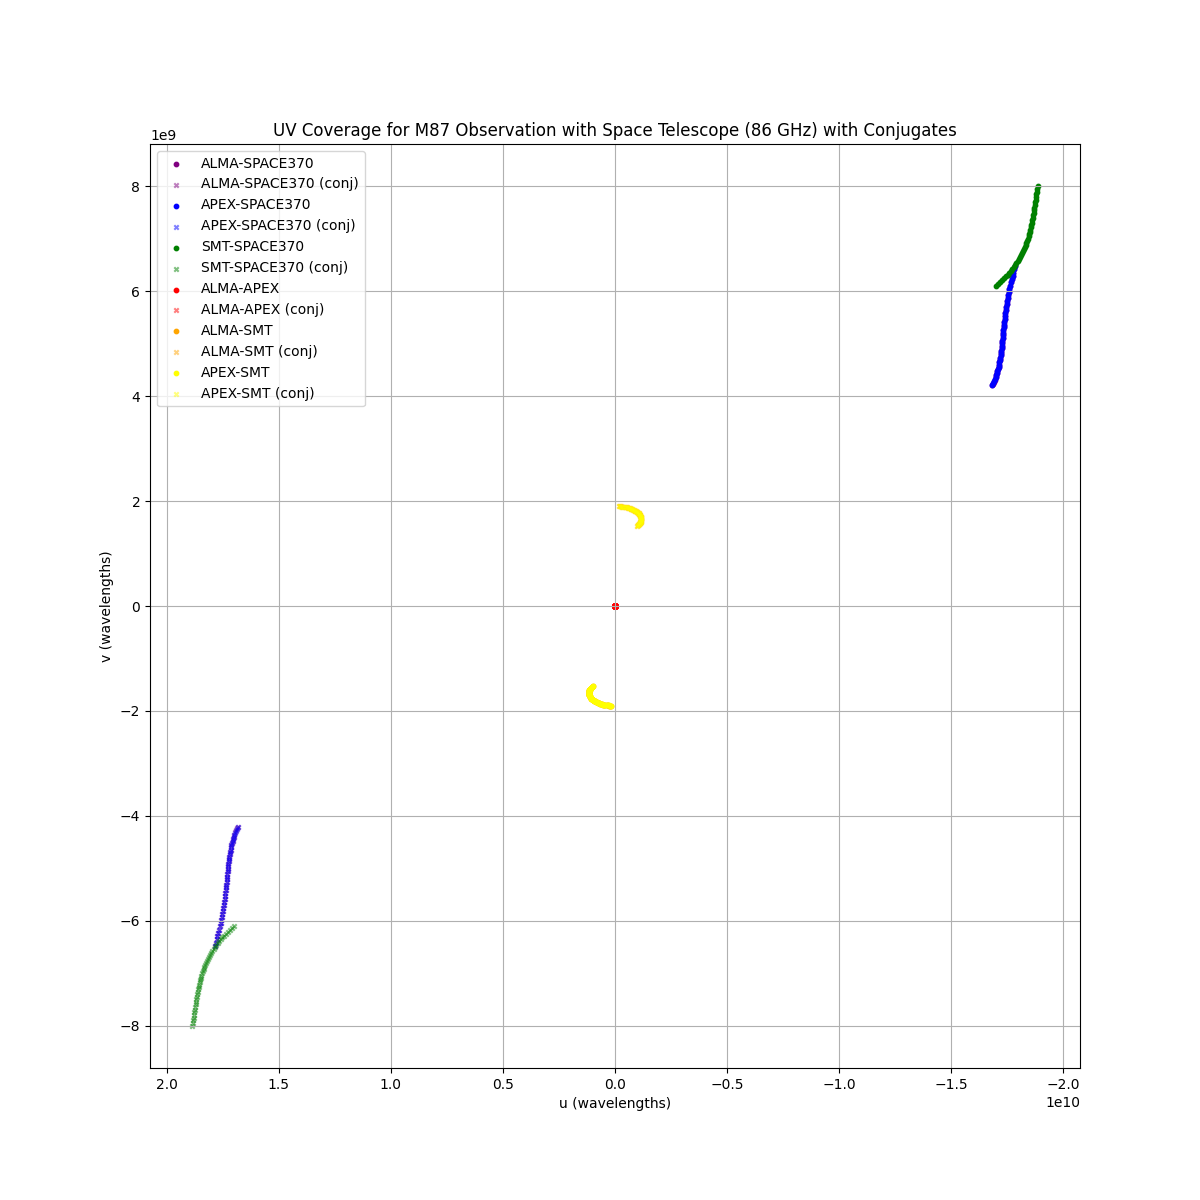
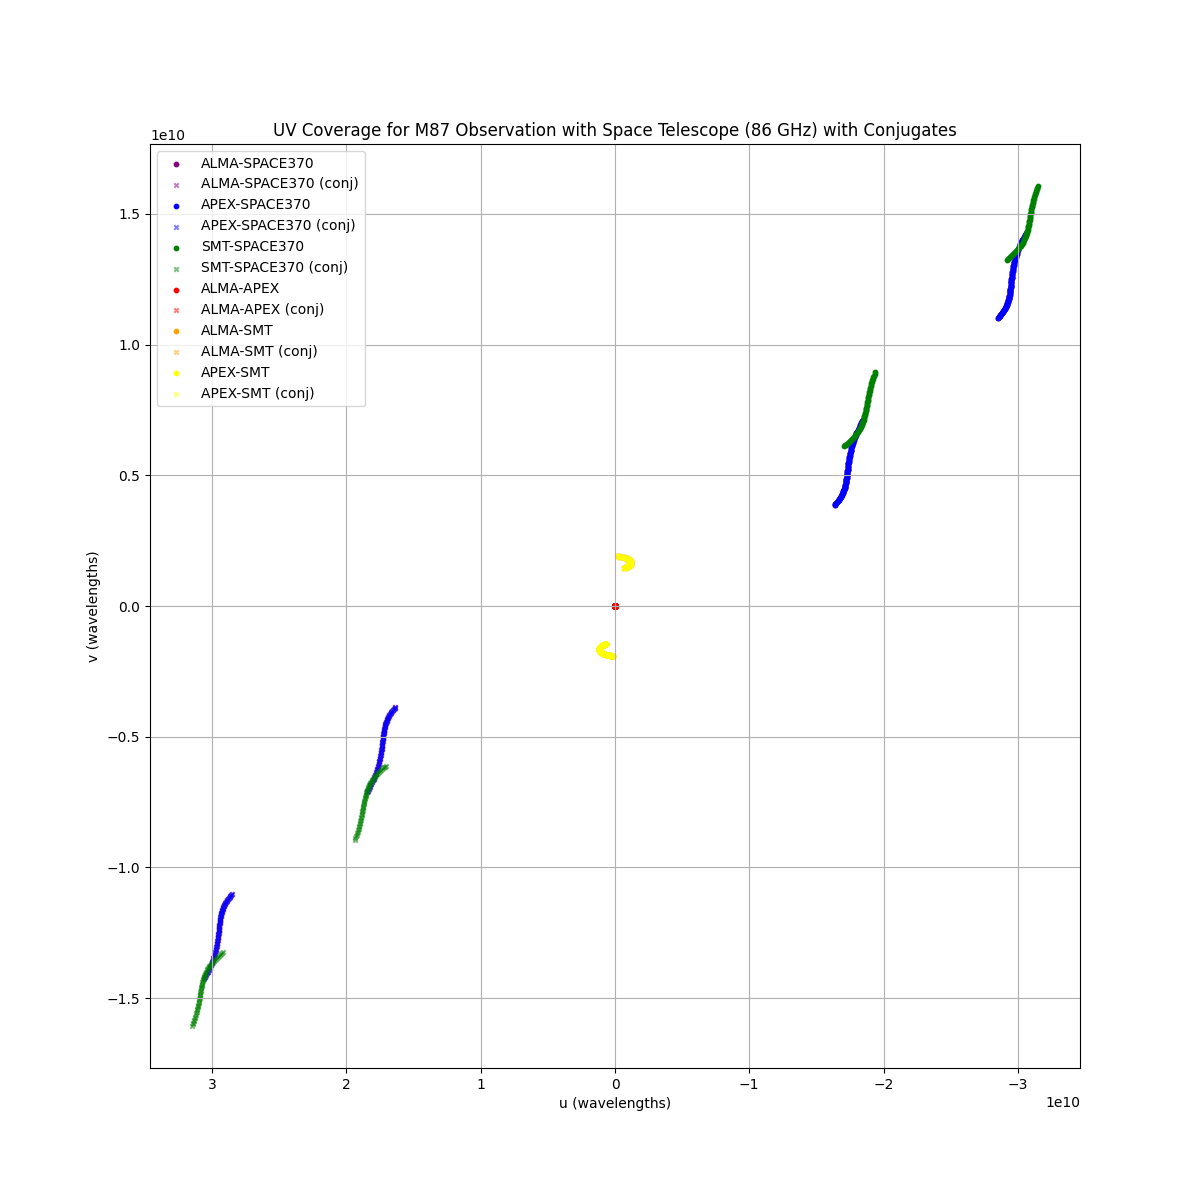
01.04.2025

diff --git a/super/calculator.py b/super/calculator.py
@@ -201,6 +201,52 @@ class Calculator(ABC):
                     visibility[tel_code].append(is_visible)
             return {"source": source.get_name(), "times": [t.isot for t in times], "visibility": visibility}
     
+    def _compute_visibility_at_time(self, source: Source, telescopes: List[Telescope | SpaceTelescope], time: Time) -> Dict[str, bool]:
+        """Compute visibility of a source for telescopes at a given time, considering mount type"""
+        source_coord = SkyCoord(ra=source.get_ra_degrees() * u.deg, dec=source.get_dec_degrees() * u.deg, frame='icrs')
+        visibility = {}
+        for tel in telescopes:
+            if isinstance(tel, SpaceTelescope):
+                tm = time.to_datetime()
+                tm = tm.replace(tzinfo=timezone.utc)
+                pos, _ = tel.get_state_vector(tm)
+                itrs = ITRS(CartesianRepresentation(*pos, unit=u.m), obstime=time)
+                altaz = source_coord.transform_to(AltAz(obstime=time, location=itrs.earth_location))
+                pitch = altaz.alt.deg
+                yaw = altaz.az.deg
+                pitch_range = tel.get_pitch_range()
+                yaw_range = tel.get_yaw_range()
+                is_visible = (pitch_range[0] <= pitch <= pitch_range[1]) and (yaw_range[0] <= yaw <= yaw_range[1])
+            else:
+                x, y, z = tel.get_coordinates()
+                vx, vy, vz = tel.get_velocities()
+                dt = (time - Time("2000-01-01T12:00:00")).sec
+                itrs_coords = CartesianRepresentation(x + vx * dt, y + vy * dt, z + vz * dt, unit=u.m)
+                itrs = ITRS(itrs_coords, obstime=time)
+                location = itrs.earth_location
+                altaz = source_coord.transform_to(AltAz(obstime=time, location=location))
+                el = altaz.alt.deg
+                az = altaz.az.deg
+                hadec = source_coord.transform_to(HADec(obstime=time, location=location))
+                ha = hadec.ha.deg
+
+                mount_type = tel.get_mount_type()
+                if mount_type == MountType.AZIMUTHAL:
+                    el_range = tel.get_elevation_range()
+                    az_range = tel.get_azimuth_range()
+                    is_visible = (el_range[0] <= el <= el_range[1]) and (az_range[0] <= az <= az_range[1])
+                elif mount_type == MountType.EQUATORIAL:
+                    dec = hadec.dec.deg
+                    ha_range = tel.get_azimuth_range()
+                    dec_range = tel.get_elevation_range()
+                    is_visible = (dec_range[0] <= dec <= dec_range[1]) and (ha_range[0] <= ha <= ha_range[1])
+                    
+                else:
+                    logger.warning(f"Unsupported mount type {mount_type} for telescope '{tel.get_code()}'")
+                    is_visible = False
+            visibility[tel.get_code()] = is_visible
+        return visibility
+    
     def _calculate_uv_coverage(self, obj: Observation | Project, attributes: Dict[str, Any]) -> Dict[str, Any]:
         """Calculate (u,v) coverage for all scans in the observation or project"""
         try:
@@ -325,54 +371,6 @@ class Calculator(ABC):
                     uv_points[freq].append((pair, uuu, vvv, www))
 
         return uv_points
-    
-    def _compute_visibility_at_time(self, source: Source, telescopes: List[Telescope | SpaceTelescope], time: Time) -> Dict[str, bool]:
-        """Compute visibility of a source for telescopes at a given time, considering mount type"""
-        source_coord = SkyCoord(ra=source.get_ra_degrees() * u.deg, dec=source.get_dec_degrees() * u.deg, frame='icrs')
-        visibility = {}
-        for tel in telescopes:
-            if isinstance(tel, SpaceTelescope):
-                tm = time.to_datetime()
-                tm = tm.replace(tzinfo=timezone.utc)
-                pos, _ = tel.get_state_vector(tm)
-                itrs = ITRS(CartesianRepresentation(*pos, unit=u.m), obstime=time)
-                altaz = source_coord.transform_to(AltAz(obstime=time, location=itrs.earth_location))
-                pitch = altaz.alt.deg
-                yaw = altaz.az.deg
-                pitch_range = tel.get_pitch_range()
-                yaw_range = tel.get_yaw_range()
-                #is_visible = (pitch_range[0] <= pitch <= pitch_range[1]) and (yaw_range[0] <= yaw <= yaw_range[1])
-                is_visibile = True
-            else:
-                x, y, z = tel.get_coordinates()
-                vx, vy, vz = tel.get_velocities()
-                dt = (time - Time("2000-01-01T12:00:00")).sec
-                itrs_coords = CartesianRepresentation(x + vx * dt, y + vy * dt, z + vz * dt, unit=u.m)
-                itrs = ITRS(itrs_coords, obstime=time)
-                location = itrs.earth_location
-                altaz = source_coord.transform_to(AltAz(obstime=time, location=location))
-                el = altaz.alt.deg
-                az = altaz.az.deg
-                hadec = source_coord.transform_to(HADec(obstime=time, location=location))
-                ha = hadec.ha.deg
-
-                mount_type = tel.get_mount_type()
-                if mount_type == MountType.AZIMUTHAL:
-                    el_range = tel.get_elevation_range()
-                    az_range = tel.get_azimuth_range()
-                    is_visible = (el_range[0] <= el <= el_range[1]) and (az_range[0] <= az <= az_range[1])
-                elif mount_type == MountType.EQUATORIAL:
-                    dec = hadec.dec.deg
-                    ha_range = tel.get_azimuth_range()
-                    dec_range = tel.get_elevation_range()
-                    is_visible = (dec_range[0] <= dec <= dec_range[1]) and (ha_range[0] <= ha <= ha_range[1])
-                else:
-                    logger.warning(f"Unsupported mount type {mount_type} for telescope '{tel.get_code()}'")
-                    is_visible = False
-
-                logger.debug(f"Telescope {tel.get_code()} at {time.isot}: Lat={location.lat.deg:.2f}, Lon={location.lon.deg:.2f}, Pos={(x, y, z)}")
-            visibility[tel.get_code()] = is_visible
-        return visibility
 
     def _calculate_sun_angles(self, obj: Observation | Project, attributes: Dict[str, Any]) -> Dict[str, Any]:
         """Calculate angles between source and Sun for all scans in the observation or project"""

diff --git a/test_m87_space.py b/test_m87_space.py
@@ -90,7 +90,7 @@ class TestEHTObservationWithSpaceTelescope(unittest.TestCase):
         scan_attributes = {
             "set_scan": {
                 "start": ts,
-                "duration": 172800,  # 48 часов (2 дня)
+                "duration": 172800,
                 "source_index": 0,
                 "telescope_indices": [0, 1, 2, 3],  # ALMA, APEX, SMT, SPACE370
                 "frequency_indices": [0]
@@ -129,11 +129,9 @@ class TestEHTObservationWithSpaceTelescope(unittest.TestCase):
         self.assertTrue(uv_results, "UV calculation failed")
         print(f"UV calculation took {time.time() - start:.2f} seconds")
 
-        # 7. Визуализация
         uv_data = observation.get_calculated_data_by_key("uv_coverage_f0")["data"]
         freq = 86e9  # 86 GHz в Гц
 
-        # Определяем все возможные пары и их цвета
         colors = {
             'ALMA-SPACE370': 'purple',
             'APEX-SPACE370': 'blue',
@@ -145,33 +143,22 @@ class TestEHTObservationWithSpaceTelescope(unittest.TestCase):
         u_points_dict = {pair: [] for pair in colors.keys()}
         v_points_dict = {pair: [] for pair in colors.keys()}
         w_points_dict = {pair: [] for pair in colors.keys()}
-        u_conj_points_dict = {pair: [] for pair in colors.keys()}  # Для сопряжённых
-        v_conj_points_dict = {pair: [] for pair in colors.keys()}  # Для сопряжённых
+        u_conj_points_dict = {pair: [] for pair in colors.keys()}
+        v_conj_points_dict = {pair: [] for pair in colors.keys()}
 
         for scan_idx, scan_data in uv_data.items():
             if "uv_points" not in scan_data or freq not in scan_data["uv_points"]:
                 logger.error(f"No valid UV points for scan {scan_idx} at frequency {freq}")
                 continue
-            uv_points = scan_data["uv_points"][freq]  # Список кортежей (pair, u, v, w)
-            times = scan_data.get("times", [])
-            if not times:
-                logger.warning(f"No times available for scan {scan_idx}, skipping time-based processing")
-                for pair, uu, vv, ww in uv_points:
-                    if pair in u_points_dict:
-                        u_points_dict[pair].append(float(uu))
-                        v_points_dict[pair].append(float(vv))
-                        w_points_dict[pair].append(float(ww))
-                        u_conj_points_dict[pair].append(-float(uu))
-                        v_conj_points_dict[pair].append(-float(vv))
-            else:
-                for t, (pair, uu, vv, ww) in zip(times, uv_points):
-                    if pair in u_points_dict:
-                        u_points_dict[pair].append(float(uu))
-                        v_points_dict[pair].append(float(vv))
-                        w_points_dict[pair].append(float(ww))
-                        u_conj_points_dict[pair].append(-float(uu))
-                        v_conj_points_dict[pair].append(-float(vv))
-                        logger.debug(f"Time: {t}, Pair: {pair}, u: {uu:.4f}, v: {vv:.4f}, w: {ww:.4f}, conj_u: {-uu:.4f}, conj_v: {-vv:.4f}")
+            uv_points = scan_data["uv_points"][freq]
+            
+            for i, (pair, uu, vv, ww) in enumerate(uv_points):
+                if pair in u_points_dict:
+                    u_points_dict[pair].append(float(uu))
+                    v_points_dict[pair].append(float(vv))
+                    w_points_dict[pair].append(float(ww))
+                    u_conj_points_dict[pair].append(-float(uu))
+                    v_conj_points_dict[pair].append(-float(vv))
 
         # Проверка данных
         self.assertGreater(len(u_points_dict['ALMA-SPACE370']), 0, "No points for ALMA-SPACE370 baseline")
